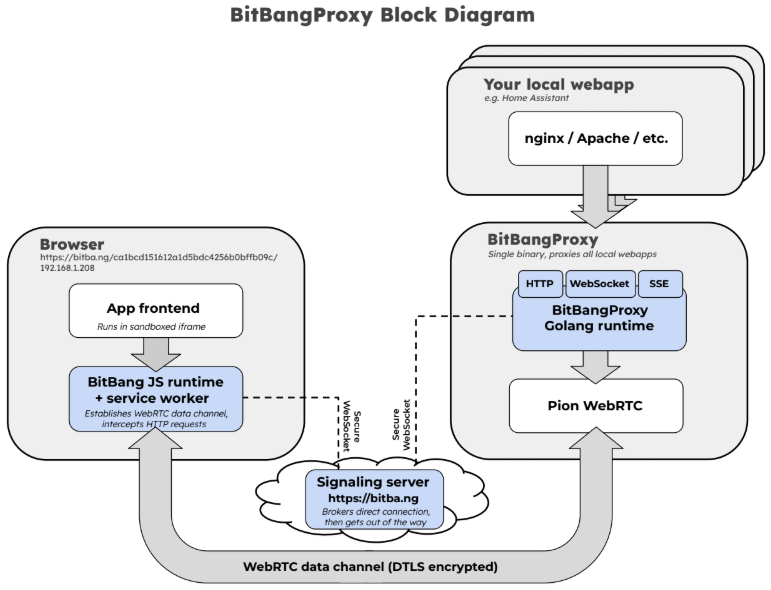
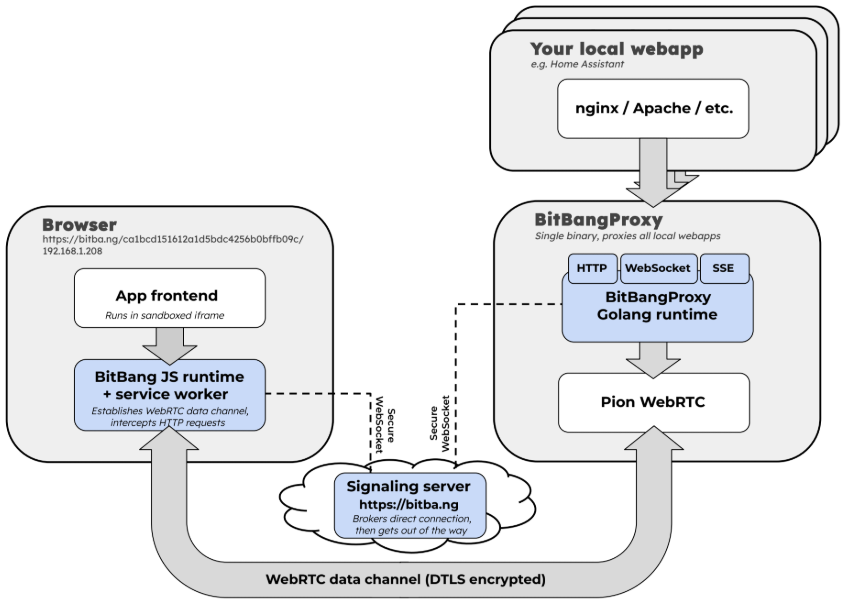
edit README

Changed region(s): [[0.0, 0.0, 0.9961, 1.0], [0.5292, 0.4881, 0.5914, 0.5797], [0.2179, 0.8847, 0.249, 0.9153]]

diff --git a/README.md b/README.md
@@ -3,9 +3,9 @@
 ![Tests](https://github.com/richlegrand/bitbangproxy/actions/workflows/tests.yml/badge.svg)
 ![License](https://img.shields.io/github/license/richlegrand/bitbangproxy)
 
-A WebRTC proxy that connects browsers to any web server on your local network. No port forwarding, no VPN, no software on the target machine.
+BitBangProxy enables full access to your NAS / Jellyfin / Plex / Open WebUI / Flask apps / Node-RED dashboard / etc. from outside your network. It's a single executable that runs on a machine on your local network. It doesn't require port forwarding, VPNs, accounts, or software to be installed on the target machine.
 
-BitBangProxy extends [BitBang](https://github.com/richlegrand/bitbang) with a standalone Go binary that proxies HTTP, WebSocket, and streaming connections through a WebRTC data channel.
+This is part of the [BitBang project](https://github.com/richlegrand/bitbang). 
 
 ## Quick start
 
@@ -33,6 +33,18 @@ https://bitba.ng/<proxy-id>/localhost:3000/admin
 - **PIN protection** -- optional `--pin` flag to restrict access
 - **Redirect handling** -- follows cross-host redirects, passes same-host redirects to the browser
 - **No installation on the target** -- proxy runs on any machine on the same network
+
+## Comparison
+
+| | ngrok | Cloudflare Tunnel | Tailscale | BitBang |
+|---|---|---|---|---|
+| Account required | Yes | Yes | Yes | No |
+| Free tunnels | 1 | Unlimited | Unlimited | Unlimited |
+| Data path | Their servers | Their servers | P2P | P2P |
+| Viewer needs install | No | No | Yes | No |
+| Configuration | CLI flags | Config file + DNS | Dashboard | None |
+
+BitBang's data path is direct between peers. The signaling server (`bitba.ng`) brokers the initial connection, then steps aside.
 
 ## Usage
 
@@ -105,11 +117,10 @@ internal/auth/pin.go           -- PIN verification
 
 See [implementation_notes.md](implementation_notes.md) for detailed design decisions.
 
-## Related
-
-- [BitBang](https://github.com/richlegrand/bitbang) -- Python library for building BitBang devices
-- [BitBang Server](https://github.com/richlegrand/bitbang-server) -- Signaling server and browser runtime
-
 ## License
 
-MIT
+MIT See [LICENSE](LICENSE).
+
+## Contributing
+
+This is a one-person project. Issues and PRs are welcome and genuinely appreciated. I'll do my best to respond promptly.